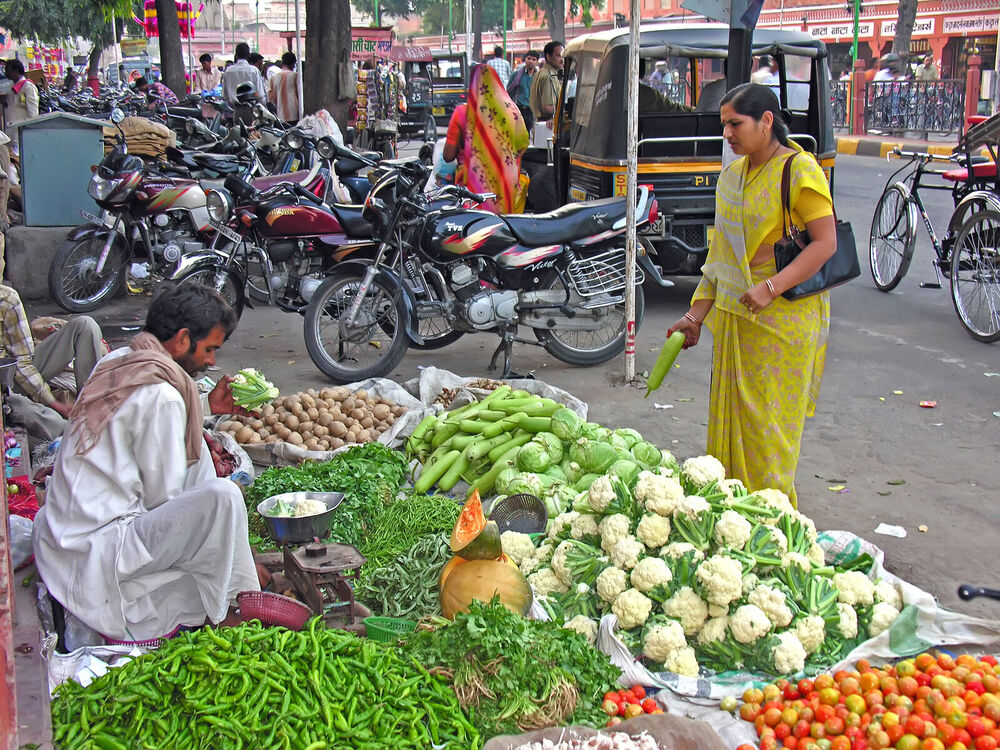
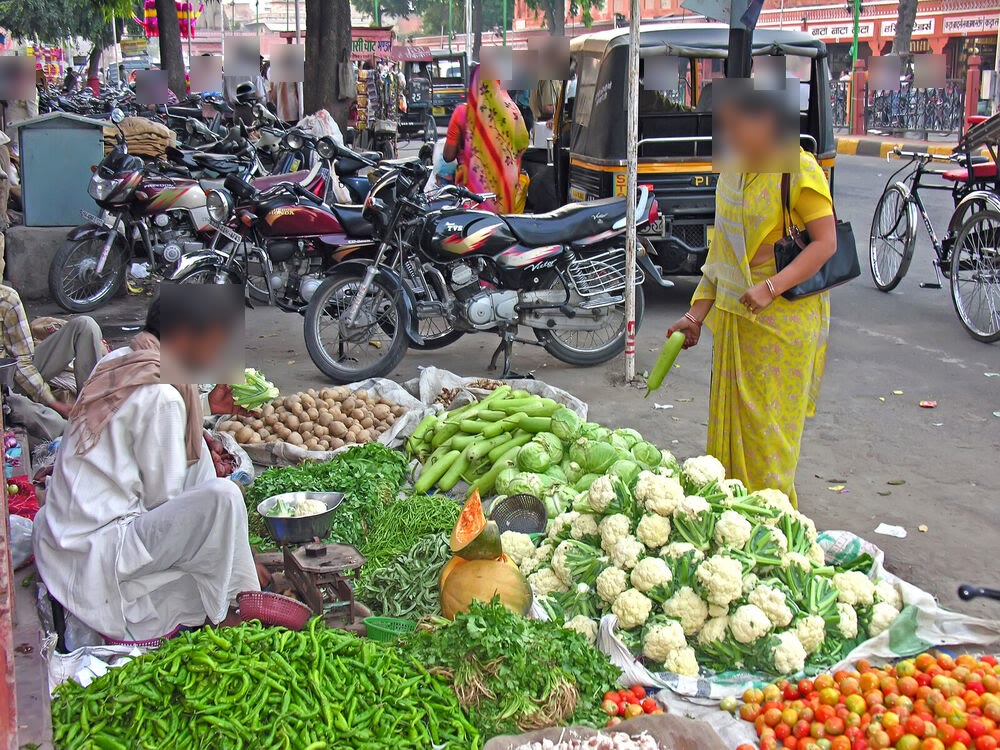
Real or AI: nine new photo pairs and a real easy-to-hard ramp
- Easy: five new pairs where Gemini made its own polished version of a
  Wikimedia Commons photo (hibiscus, camel, lemon tea, mangoes, parakeets).
- Medium: same scene redrawn with things changed (cottage, thali, stall,
  lighthouse moved here; new graffiti bicycle and spice market).
- Hard: near-exact copies (fox, dog, glacier, market, plus bridge and Fuji
  moved up; new tuxedo cat and sand dune).
- Faces in the market pair are blurred.
- New AI images cropped to remove Gemini's visible mark; each pair shares
  one size so shape and file size give nothing away. Only the six pairs of
  the current game are preloaded, so loading stays as fast as before.
- Tier and Content Credentials wording updated to stay accurate.

diff --git a/src/games/real-or-ai/engine/pairs.ts b/src/games/real-or-ai/engine/pairs.ts
@@ -2,7 +2,11 @@ import { ROUNDS } from "./scoring";
 import type { ActiveQuestion, AiPhoto, ComparisonPair, Difficulty, PairPhoto, RealPhoto, Side } from "./types";
 
 /**
- * The ten photo pairs, copied from the original src/data/pairs.ts.
+ * The photo pairs: ten copied from the original src/data/pairs.ts, nine added
+ * on 2026-11-17 (real photos from Wikimedia Commons, AI versions made with
+ * Google Gemini from each real photo). Tiers were re-sorted so difficulty
+ * climbs: easy = AI's own new version, medium = same scene with things
+ * changed, hard = near-exact copy. Faces in the market pair are blurred.
  *
  * Changes from the original, all deliberate:
  * - Clues were checked against the image files and rewritten in plain words.
@@ -40,11 +44,128 @@ const ai = (
 ): AiPhoto => ({ id, src: `${DIR}/${file}`, width, height, isReal: false, clues, contentCredentials });
 
 export const COMPARISON_PAIRS: readonly ComparisonPair[] = [
-  // Easy: AI added whole objects.
+  // Easy: AI made its own new version of the subject, with the polished look AI photos often have.
+  {
+    id: "pair-hibiscus",
+    subject: "A red hibiscus flower on its bush",
+    difficulty: "easy",
+    realItem: real("real-hibiscus", "hibiscus-1.jpg", 1200, 800, {
+      author: "Vengolis",
+      source: "Wikimedia Commons",
+      file: "Hibiscus 00526.JPG",
+      license: "CC BY-SA 4.0",
+    }),
+    aiItem: ai(
+      "ai-hibiscus",
+      "hibiscus-2.jpg",
+      1200,
+      800,
+      [
+        "The petals are smooth like plastic, with no fine veins or creases.",
+        "Every leaf is equally sharp and glossy. None are bitten, torn or dusty.",
+        "The bush is filled with near copies of the same leaf shape.",
+      ],
+      true,
+    ),
+  },
+  {
+    id: "pair-desert-camel",
+    subject: "A camel resting in a rocky desert",
+    difficulty: "easy",
+    realItem: real("real-camel", "camel-2.jpg", 1200, 800, {
+      author: "AntanO",
+      source: "Wikimedia Commons",
+      file: "Camel in desert.JPG",
+      license: "CC BY-SA 4.0",
+    }),
+    aiItem: ai(
+      "ai-camel",
+      "camel-1.jpg",
+      1200,
+      800,
+      [
+        "Golden light makes the whole scene glow, like an advert. The real photo has flat evening light.",
+        "The camel's fur is combed into neat, matching curls.",
+        "The saddle blanket's pattern is perfect and its tassels hang in a tidy row.",
+      ],
+      true,
+    ),
+  },
+  {
+    id: "pair-lemon-tea",
+    subject: "A cup of black tea with a lemon slice",
+    difficulty: "easy",
+    realItem: real("real-lemon-tea", "tea-1.jpg", 1200, 800, {
+      author: "Nayan j Nath",
+      source: "Wikimedia Commons",
+      file: "A cup of Assam Tea with lemon.jpg",
+      license: "CC0 (public domain)",
+    }),
+    aiItem: ai(
+      "ai-lemon-tea",
+      "tea-2.jpg",
+      1200,
+      800,
+      [
+        "The tea bag tag is blank. The real one has a printed brand name.",
+        "The steam curls look painted on, and tea this hot rarely shows steam that neatly.",
+        "The wooden table is smooth and even, like a printed pattern.",
+      ],
+      true,
+    ),
+  },
+  {
+    id: "pair-green-mangoes",
+    subject: "Green mangoes hanging on the tree",
+    difficulty: "easy",
+    realItem: real("real-mangoes", "mango-2.jpg", 1200, 800, {
+      author: "iMahesh",
+      source: "Wikimedia Commons",
+      file: "Mangoes during the end of Autumn season in Hyderabad (2).jpg",
+      license: "CC BY-SA 4.0",
+    }),
+    aiItem: ai(
+      "ai-mangoes",
+      "mango-1.jpg",
+      1200,
+      800,
+      [
+        "The mangoes are smooth and spotless, with no marks or scratches.",
+        "The dry flower stalks look like crumbs sprinkled over the fruit.",
+        "Every leaf is sharp and shiny, with no holes, dust or dry edges.",
+      ],
+      true,
+    ),
+  },
+  {
+    id: "pair-parakeets",
+    subject: "Two green parakeets at a nest hole in a tree",
+    difficulty: "easy",
+    realItem: real("real-parakeets", "parakeet-1.jpg", 1200, 800, {
+      author: "A. H. M Ibnul Arabi",
+      source: "Wikimedia Commons",
+      file: "Rose-ringed parakeet (Psittacula krameri), University of Rajshahi, Bangladesh (1).jpg",
+      license: "CC BY-SA 4.0",
+    }),
+    aiItem: ai(
+      "ai-parakeets",
+      "parakeet-2.jpg",
+      1200,
+      800,
+      [
+        "Both birds pose neatly at the perfect moment, like a staged shot.",
+        "The feathers are spotless and perfectly arranged, almost like a painting.",
+        "The forest behind melts into an even, creamy blur.",
+      ],
+      true,
+    ),
+  },
+
+  // Medium: the same scene redrawn by AI, with whole objects added or changed.
   {
     id: "pair-thatched-cottage",
     subject: "A blue cottage with a straw roof",
-    difficulty: "easy",
+    difficulty: "medium",
     realItem: real("real-cottage-house", "cottage-2.jpg", 1000, 667, {
       author: "Krzysztof Popławski",
       source: "Wikimedia Commons",
@@ -67,7 +188,7 @@ export const COMPARISON_PAIRS: readonly ComparisonPair[] = [
   {
     id: "pair-indian-thali",
     subject: "A thali plate with rice, curries and papad",
-    difficulty: "easy",
+    difficulty: "medium",
     // The original credited an invented "Culinary Documentary Archive". Source not known.
     realItem: real("real-indian-thali", "thali-1.jpg", 1000, 750, {
       author: null,
@@ -91,7 +212,7 @@ export const COMPARISON_PAIRS: readonly ComparisonPair[] = [
   {
     id: "pair-vegetable-stall",
     subject: "A vegetable stall with tomatoes, okra and pumpkins",
-    difficulty: "easy",
+    difficulty: "medium",
     // The original credited an invented "Field Documentary Archive". Source not known.
     realItem: real("real-fruit-stand", "stall-2.jpg", 1000, 710, {
       author: null,
@@ -113,11 +234,10 @@ export const COMPARISON_PAIRS: readonly ComparisonPair[] = [
     ),
   },
 
-  // Medium: AI changed colours, light and small parts.
   {
     id: "pair-fuji-sakura",
     subject: "Mount Fuji across a lake, framed by cherry blossoms",
-    difficulty: "medium",
+    difficulty: "hard",
     realItem: real("real-fuji-sakura", "fuji-1.jpg", 1000, 669, {
       author: "Midori",
       source: "Wikimedia Commons",
@@ -140,7 +260,7 @@ export const COMPARISON_PAIRS: readonly ComparisonPair[] = [
   {
     id: "pair-golden-gate",
     subject: "The Golden Gate Bridge seen from an old brick fort",
-    difficulty: "medium",
+    difficulty: "hard",
     realItem: real("real-golden-gate", "bridge-2.jpg", 1000, 563, {
       author: "Frank Schulenburg",
       source: "Wikimedia Commons",
@@ -184,7 +304,54 @@ export const COMPARISON_PAIRS: readonly ComparisonPair[] = [
     ),
   },
 
-  // Hard: AI only smoothed tiny textures.
+  {
+    id: "pair-graffiti-bicycle",
+    subject: "A bicycle parked by graffiti-covered doors in Amsterdam",
+    difficulty: "medium",
+    realItem: real("real-graffiti-bicycle", "bicycle-1.jpg", 1200, 800, {
+      author: "Basile Morin",
+      source: "Wikimedia Commons",
+      file: "Parked bicycle with graffitied building facade and doors in Amsterdam.jpg",
+      license: "CC BY-SA 4.0",
+    }),
+    aiItem: ai(
+      "ai-graffiti-bicycle",
+      "bicycle-2.jpg",
+      1200,
+      800,
+      [
+        "A red and yellow burst sits inside the big white letters. The real wall has none.",
+        "Read the scribbled tags on the right-hand door: they turn into shapes that aren't letters.",
+        "The bike is spotless and stands perfectly side on, too neat for a street bike.",
+      ],
+      true,
+    ),
+  },
+  {
+    id: "pair-spice-market",
+    subject: "Sacks of spices and garlic at a market",
+    difficulty: "medium",
+    realItem: real("real-spice-market", "spices-2.jpg", 1200, 900, {
+      author: "Bernard Gagnon",
+      source: "Wikimedia Commons",
+      file: "Spices market Medenine.jpg",
+      license: "CC BY-SA 3.0",
+    }),
+    aiItem: ai(
+      "ai-spice-market",
+      "spices-1.jpg",
+      1200,
+      900,
+      [
+        "The front sack is deep red chilli. In the real photo it's orange.",
+        "A brass scoop now sits in the yellow sack. The real sack has none.",
+        "The garlic bulbs look smooth and alike, like copies of each other.",
+      ],
+      true,
+    ),
+  },
+
+  // Hard: near-exact AI copies of the real photo. Only tiny textures and details differ.
   {
     id: "pair-snow-fox",
     subject: "A red fox curled up asleep in the snow",
@@ -275,6 +442,52 @@ export const COMPARISON_PAIRS: readonly ComparisonPair[] = [
         "The road and the cauliflowers lose their rough, grainy texture.",
       ],
       false,
+    ),
+  },
+  {
+    id: "pair-tuxedo-cat",
+    subject: "A black and white cat sitting on a lawn at dusk",
+    difficulty: "hard",
+    realItem: real("real-tuxedo-cat", "cat-2.jpg", 1200, 800, {
+      author: "Grendelkhan",
+      source: "Wikimedia Commons",
+      file: "Black and white cat sitting on lawn.jpg",
+      license: "CC BY-SA 4.0",
+    }),
+    aiItem: ai(
+      "ai-tuxedo-cat",
+      "cat-1.jpg",
+      1200,
+      800,
+      [
+        "Zoom in on the house number sign by the door: the letters are jumbled nonsense.",
+        "The dry grass in the middle turns into soft, smudged streaks.",
+        "The black fur is smoother and glossier, with fewer single hairs.",
+      ],
+      true,
+    ),
+  },
+  {
+    id: "pair-sand-dune",
+    subject: "A sand dune with wind ripples",
+    difficulty: "hard",
+    realItem: real("real-sand-dune", "dunes-1.jpg", 1200, 800, {
+      author: "Meshari Alawfi",
+      source: "Wikimedia Commons",
+      file: "Sand Dunes sa.jpg",
+      license: "CC BY 4.0",
+    }),
+    aiItem: ai(
+      "ai-sand-dune",
+      "dunes-2.jpg",
+      1200,
+      800,
+      [
+        "The ripples are too evenly spaced, like lines drawn with a ruler.",
+        "The thin clouds at the top left turn into simpler, soft smears.",
+        "Up close the sand has no fine grain. It looks smooth, like paint.",
+      ],
+      true,
     ),
   },
 ];

diff --git a/src/games/real-or-ai/engine/pairs.test.ts b/src/games/real-or-ai/engine/pairs.test.ts
@@ -21,12 +21,12 @@ function jpegSize(bytes: Uint8Array): { width: number; height: number } | null {
 const BANNED = /\b(delve|leverage|unlock|empower|elevate|seamless\w*|cutting-edge|revolutionary|magic\w*|journey|harness|robust|crucial|pivotal|showcase|vibrant)\b/i;
 
 describe("COMPARISON_PAIRS", () => {
-  test("ten pairs: 3 easy, 3 medium, 4 hard, each with 3 clues", () => {
-    expect(COMPARISON_PAIRS).toHaveLength(10);
+  test("nineteen pairs: 5 easy, 6 medium, 8 hard, each with 3 clues", () => {
+    expect(COMPARISON_PAIRS).toHaveLength(19);
     const count = (d: string) => COMPARISON_PAIRS.filter((p) => p.difficulty === d).length;
-    expect([count("easy"), count("medium"), count("hard")]).toEqual([3, 3, 4]);
+    expect([count("easy"), count("medium"), count("hard")]).toEqual([5, 6, 8]);
     for (const pair of COMPARISON_PAIRS) expect(pair.aiItem.clues).toHaveLength(3);
-    expect(new Set(COMPARISON_PAIRS.map((p) => p.id)).size).toBe(10);
+    expect(new Set(COMPARISON_PAIRS.map((p) => p.id)).size).toBe(19);
   });
 
   test("file names never say which photo is AI", () => {
@@ -108,8 +108,9 @@ describe("getGameQuestions", () => {
     const first = getGameQuestions(6).filter((q) => q.pair.difficulty === "easy").map((q) => q.pair.id);
     const second = getGameQuestions(6).filter((q) => q.pair.difficulty === "easy").map((q) => q.pair.id);
     const unseen = COMPARISON_PAIRS.filter((p) => p.difficulty === "easy" && !first.includes(p.id)).map((p) => p.id);
-    expect(unseen).toHaveLength(1);
-    expect(second).toContain(unseen[0]);
+    // With 5 easy pairs, 3 are unseen after a game, so both easy picks next game are fresh.
+    expect(unseen).toHaveLength(3);
+    for (const id of second) expect(unseen).toContain(id);
   });
 
   test("the AI photo is never on one side for more than 4 of 6 rounds", () => {

diff --git a/src/games/real-or-ai/ui/results-screen.tsx b/src/games/real-or-ai/ui/results-screen.tsx
@@ -234,8 +234,8 @@ function SpotChecklist({ aiLabelled, total }: { aiLabelled: number; total: numbe
                 <p className="type-body text-fg-muted">{check.text}</p>
                 {i === CHECKS.length - 1 && aiLabelled > 0 ? (
                   <p className="type-small mt-2 text-fg-subtle">
-                    {labelled} AI photos you saw carry a signed label inside the file that says Google&apos;s AI made them. Labels
-                    like this can be lost when a photo is re-saved, so no label doesn&apos;t prove a photo is real.
+                    {labelled} AI photos you saw came out of Google&apos;s AI with a signed label inside the file saying so. Labels
+                    like this are lost when a photo is cropped or re-saved, so no label doesn&apos;t prove a photo is real.
                   </p>
                 ) : null}
               </div>

diff --git a/src/games/real-or-ai/engine/types.ts b/src/games/real-or-ai/engine/types.ts
@@ -46,8 +46,10 @@ export interface AiPhoto extends PhotoBase {
   /** What gives it away, checked against the image files. Plain words, no jargon. */
   clues: readonly [string, string, string];
   /**
-   * The file carries signed Content Credentials (C2PA) that say
-   * "Created by Google Generative AI". Read from the files themselves.
+   * The image as Gemini delivered it carries signed Content Credentials (C2PA)
+   * that say "Created by Google Generative AI". The original ten files still
+   * hold them; the nine added on 2026-11-17 were cropped (to remove Gemini's
+   * visible sparkle mark), which drops the metadata, but the downloads had it.
    */
   contentCredentials: boolean;
 }

diff --git a/src/games/real-or-ai/ui/labels.tsx b/src/games/real-or-ai/ui/labels.tsx
@@ -27,9 +27,9 @@ export const LEVEL_NAME: Record<Difficulty, string> = { easy: "Easy", medium: "M
 
 /** What AI changed at each level, from the pairs themselves. */
 export const LEVEL_CHANGE: Record<Difficulty, string> = {
-  easy: "AI added whole objects.",
-  medium: "AI changed colours, light and small parts.",
-  hard: "AI only smoothed tiny textures.",
+  easy: "AI made its own, more polished version.",
+  medium: "AI redrew the scene and changed a few things.",
+  hard: "AI copied the photo almost exactly.",
 };
 
 export const LEVELS: Difficulty[] = ["easy", "medium", "hard"];

diff --git a/src/games/real-or-ai/ui/photo-credits.tsx b/src/games/real-or-ai/ui/photo-credits.tsx
@@ -43,7 +43,7 @@ export function PhotoCredits({ questions }: { questions: readonly ActiveQuestion
               <span className="type-small text-fg-muted">
                 AI version: {AI_VERSION_LINE}{" "}
                 {q.pair.aiItem.contentCredentials
-                  ? "Its Content Credentials say it was created by Google generative AI."
+                  ? "It came out of Google generative AI with Content Credentials saying so."
                   : "The tool used wasn't recorded."}
               </span>
             </li>
